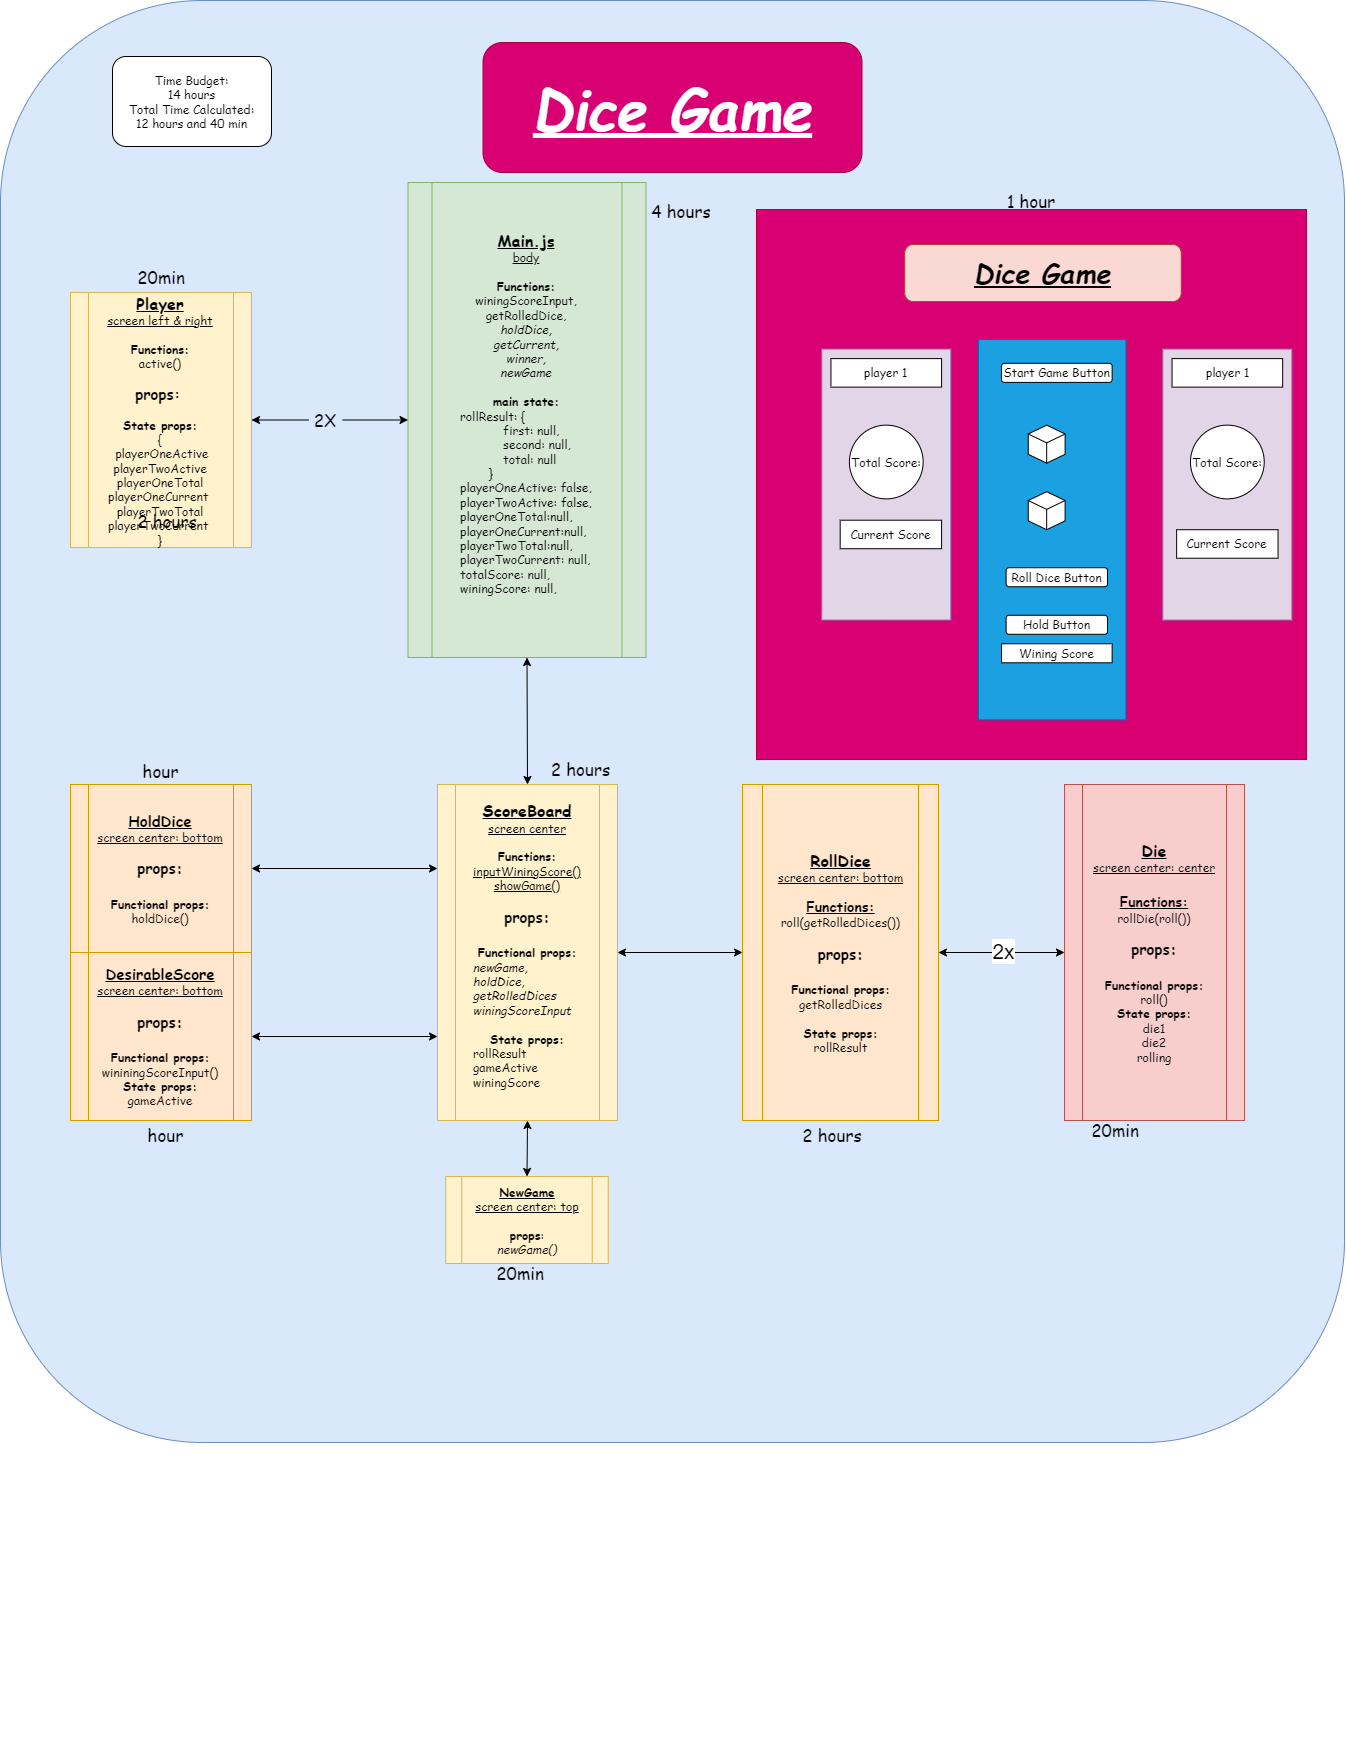
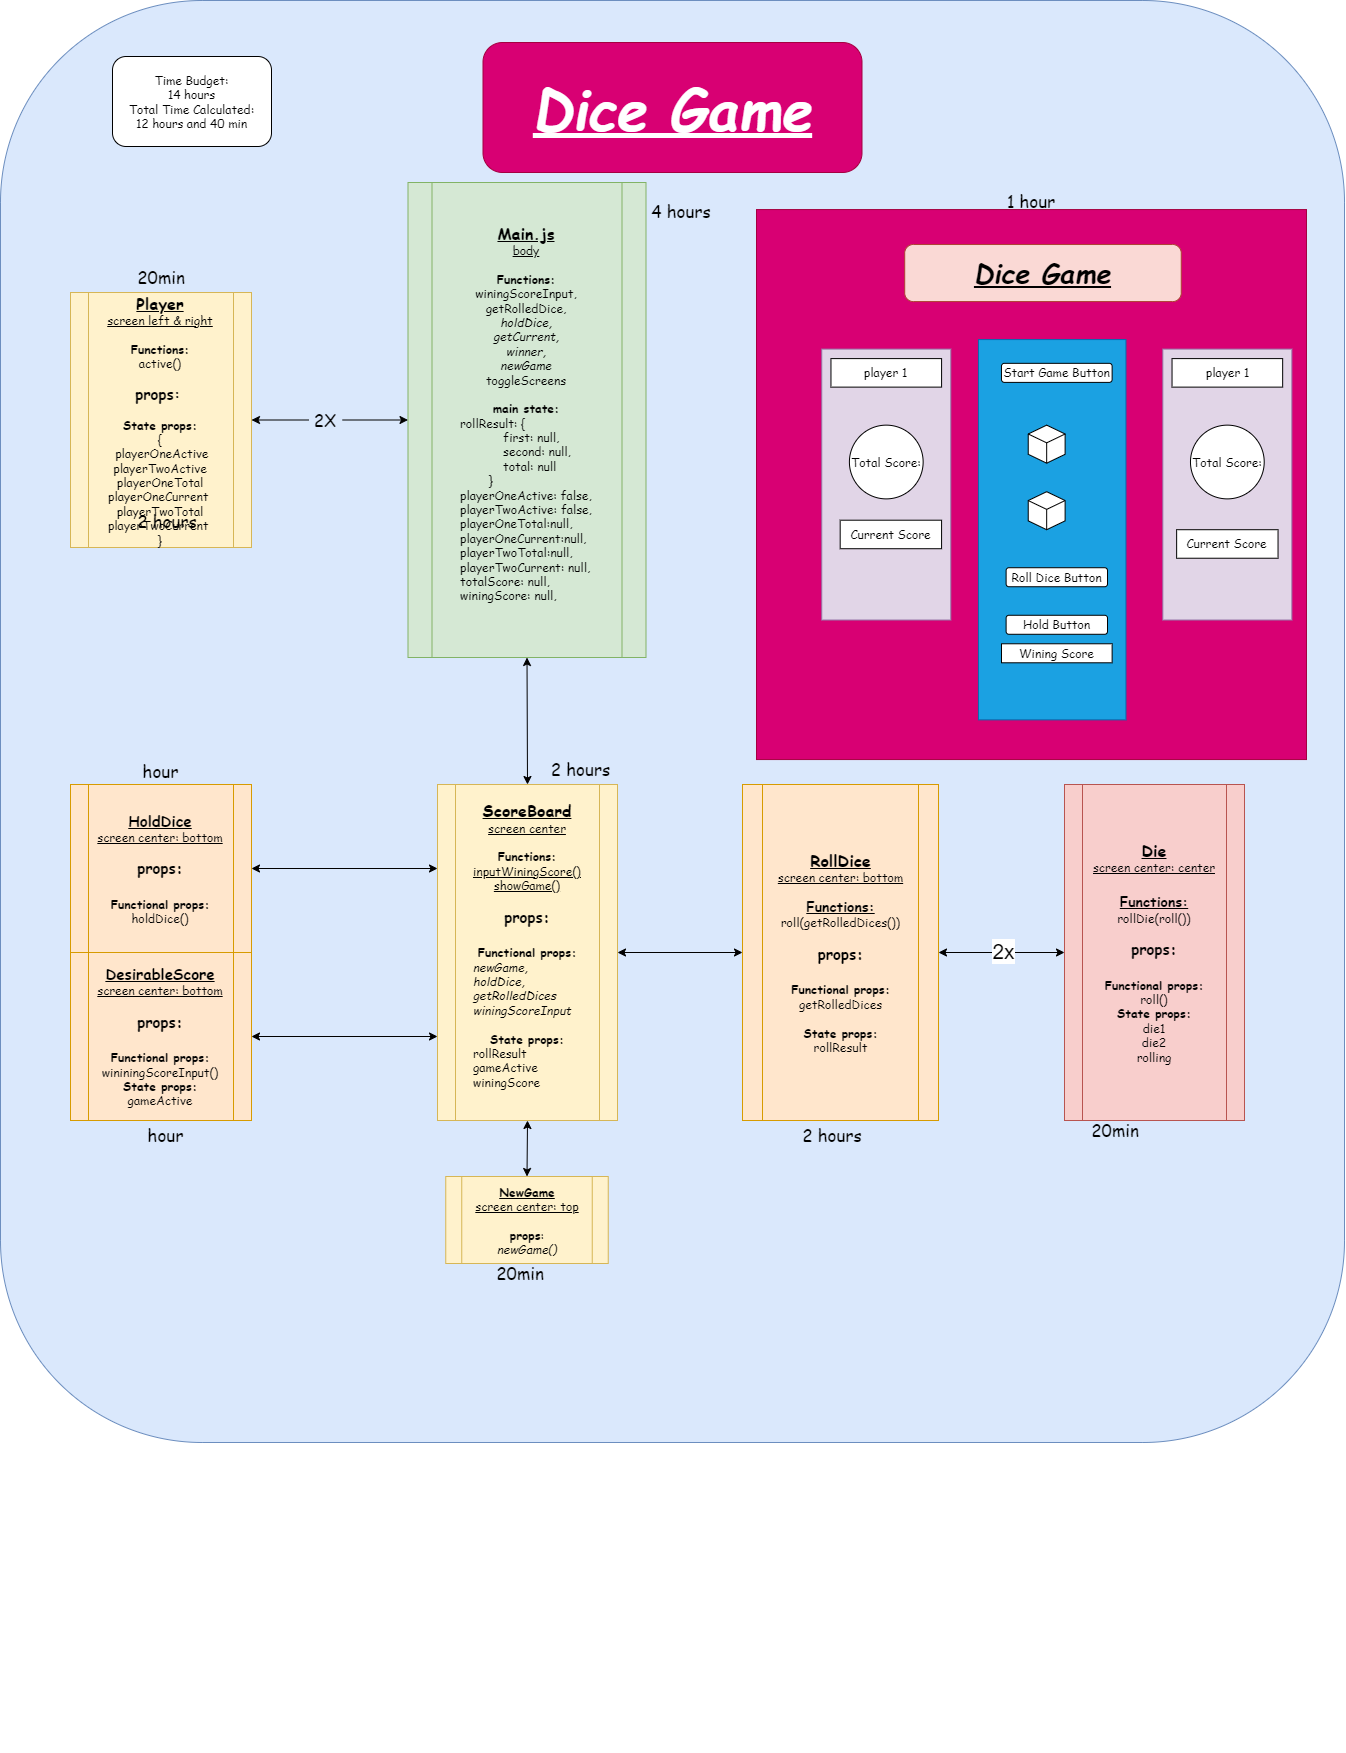
last Styling

Changed region(s): [[0.3432, 0.1232, 0.4368, 0.3388]]

diff --git a/src/components/Main.js b/src/components/Main.js
@@ -29,6 +29,7 @@ export default class Main extends Component {
             playerOneActive: true,
             winingScore: num
         })
+        
     } 
       
     getRolledDice = (rollResult, die1, die2) => {
@@ -40,7 +41,12 @@ export default class Main extends Component {
             }
         })
         this.getCurrent(rollResult)
-        this.winner(this.state)
+    }
+    toggleScreens = () => {
+        const submit = document.getElementById('Submit')
+        if (this.state.gameActive) {
+            submit.setAttribute('class', 'none')
+        } else submit.setAttribute('class', 'btn')
     }
 
     holdDice = () => {
@@ -115,16 +121,10 @@ export default class Main extends Component {
             winingScore: null,
         })
     }
-    componentDidMount() {
-    }
-    
-    componentDidUpdate() {    
-        const submit = document.getElementById('Submit')
-        console.dir(submit)
-        if (this.state.gameActive) {
-            submit.setAttribute('class', 'none')
-        } else submit.setAttribute('class', 'btn')
-        
+
+    componentDidUpdate() {  
+        this.winner(this.state)
+        this.toggleScreens()     
     }
 
     

diff --git a/src/Assets/style.css b/src/Assets/style.css
@@ -3,13 +3,24 @@
     padding: 0;
     box-sizing: border-box;
     color: #fff;
+    font-family: Arial, Helvetica, sans-serif;
 }
 body {
     font-size: 10px;
     background: url(https://i.pinimg.com/originals/7f/3e/18/7f3e186790208b63dadda09d6b91d334.jpg) no-repeat;
 }
 main {
-    height: 96vh;
+    height: 85vh;
+}
+.header {
+  width: 20rem;
+  margin-top: 2rem;
+  text-align: center;
+  background-color: #333;
+  border-radius: 10px;
+}
+.set-score {
+  background-color: #333;
 }
 
 .player-section {
@@ -46,21 +57,24 @@ main {
 }
 .player-current {
     background-color: #333;
+    border-radius: 10px;
     width: 10rem;
     height: 4rem;
 }
 .score-board {
-    width: 20rem;
+    width:30rem;
     height: 40rem;
     margin:0 5rem;
     font-size: 24px;
     background-color: rgba(35, 66, 241, 0.336);
+    border-radius: 10px;
 }
 .btn{
     cursor: pointer;
     width:6rem;
     height: 2rem;
     background-color: #333;
+    border-radius: 10px;
 }
 .input{
     background-color: #333;

diff --git a/src/App.js b/src/App.js
@@ -2,10 +2,11 @@ import Main from "./components/Main.js"
 import { library } from '@fortawesome/fontawesome-svg-core'
 import { fas } from '@fortawesome/free-solid-svg-icons'
 library.add(fas)
-
+document.querySelector('title').innerText = "Dice Game"
 function App() {
   return (
     <div className="App column-c-c">
+      <div className="header txt-40 bold">Dice Game</div>
       <Main />
       <a href='https://github.com/Avishai-Peretz/Dice-Game' className='txt-28'>Github Page</a>
     </div>

diff --git a/src/components/ScoreBoard.js b/src/components/ScoreBoard.js
@@ -21,7 +21,7 @@ export default class ScoreBoard extends Component {
             <>
         <div className='score-board column-c-se'>
             <div className={this.inputWiningScore()}>
-                <h1>Please submit Wining Score greater or equal to 12</h1>
+                <h1 className='set-score'>Please submit Wining Score greater or equal to 12</h1>
             </div>
                     <div className={this.showGame()}> 
             <div className="column-c-se">            

diff --git a/public/index.html b/public/index.html
@@ -2,7 +2,7 @@
 <html lang="en">
   <head>
     <meta charset="utf-8" />
-    <link rel="icon" href="%PUBLIC_URL%/favicon.ico" />
+    <link rel="icon" href="two-gold-dice.jpg" />
     <meta name="viewport" content="width=device-width, initial-scale=1" />
     <meta name="theme-color" content="#000000" />
     <meta
